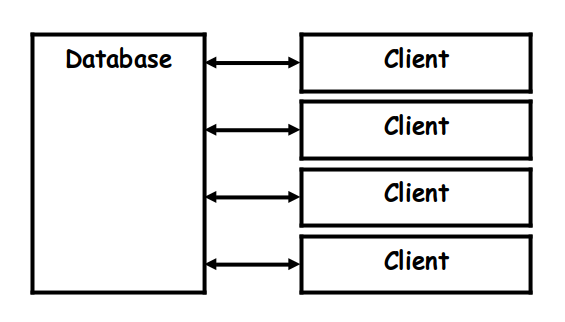
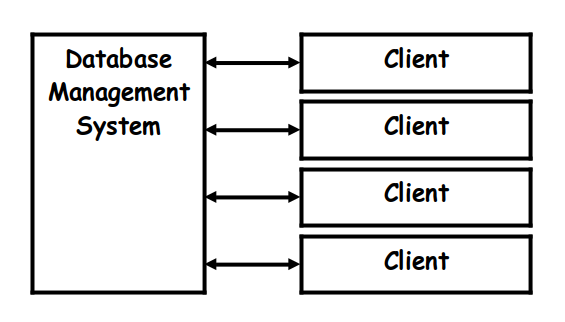
database

Changed region(s): [[0.0602, 0.2484, 0.331, 0.3416], [0.1204, 0.3416, 0.3009, 0.4348]]

diff --git a/database.php b/database.php
@@ -1,5 +1,5 @@
 <?php
-$title = "Repository";
+$title = "Database";
 include 'template/header.php';
 ?>
 
@@ -9,11 +9,13 @@ include 'template/header.php';
     </header>
 
     <p>
-        The database pattern contains a single datastructure, the <em>database</em>, and a number of <em>clients</em> that modify this datastructure.
+        The database pattern contains a central data repository, the <em>database management system</em> (DBMS), and a number of <em>clients</em> that modify this repository.
     </p>
     <p>
-        A database can provide a domain specific language, <a href="https://en.wikipedia.org/wiki/ACID">ACID</a>, transactions, backup and restore, access  management, and much more.
+        The DBMS can provide a domain specific language, <a href="https://en.wikipedia.org/wiki/ACID">ACID</a>, transactions, backup and restore, access  management, and much more.
     </p>
+
+    <figure><img src="images/database.png"><figcaption>Database architecture diagram</figcaption></figure>
 
     <h2>Examples</h2>
     <ul>
@@ -23,11 +25,6 @@ include 'template/header.php';
 
     <h2>When should you use it?</h2>
     <p>Use it when the data of your application is a goal in itself, or when its too costly to transfer the data all the time.</p>
-
-    <h2>How does it work?</h2>
-    <p>All knowledge sources can read/write to the database. The way all these interactions are synchronized is up to the database.</p>
-
-    <figure><img src="images/database.png"><figcaption>Database architecture diagram</figcaption></figure>
 
     <h2>Problems</h2>
     <ul>
